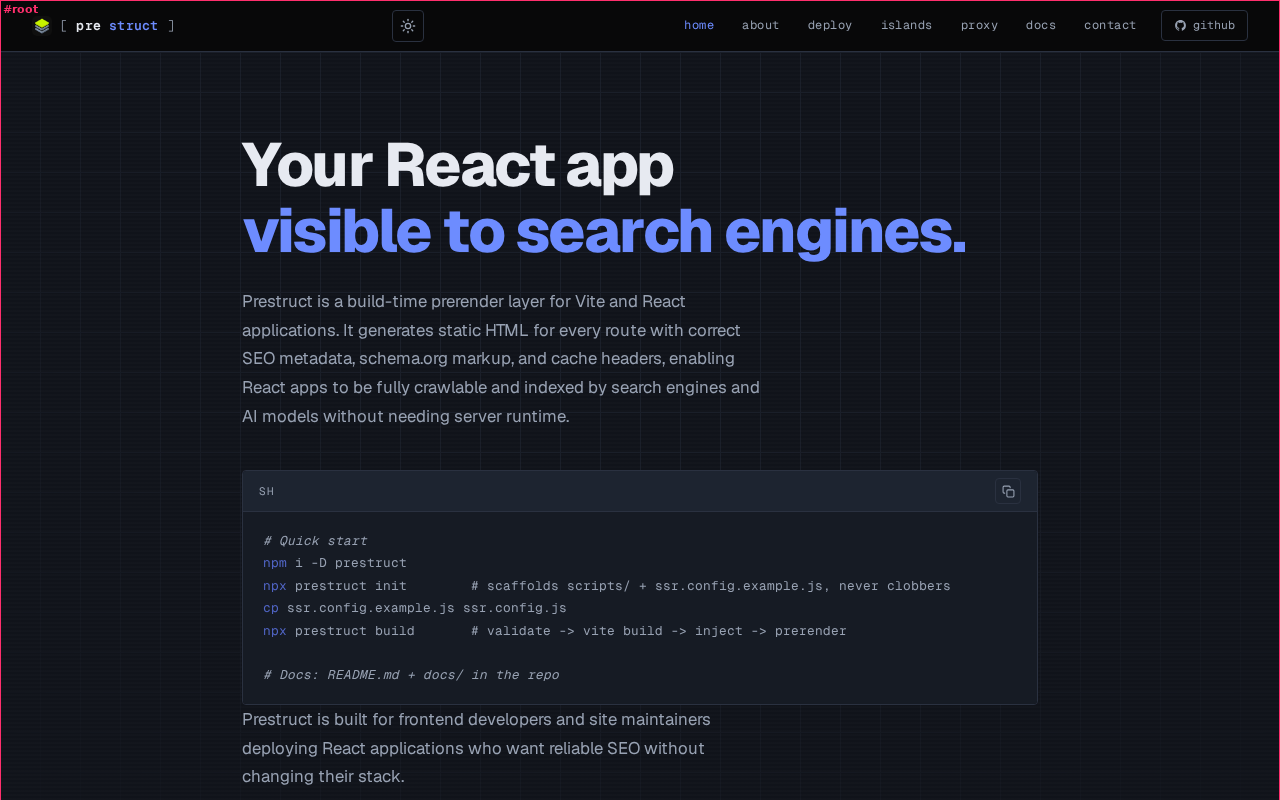
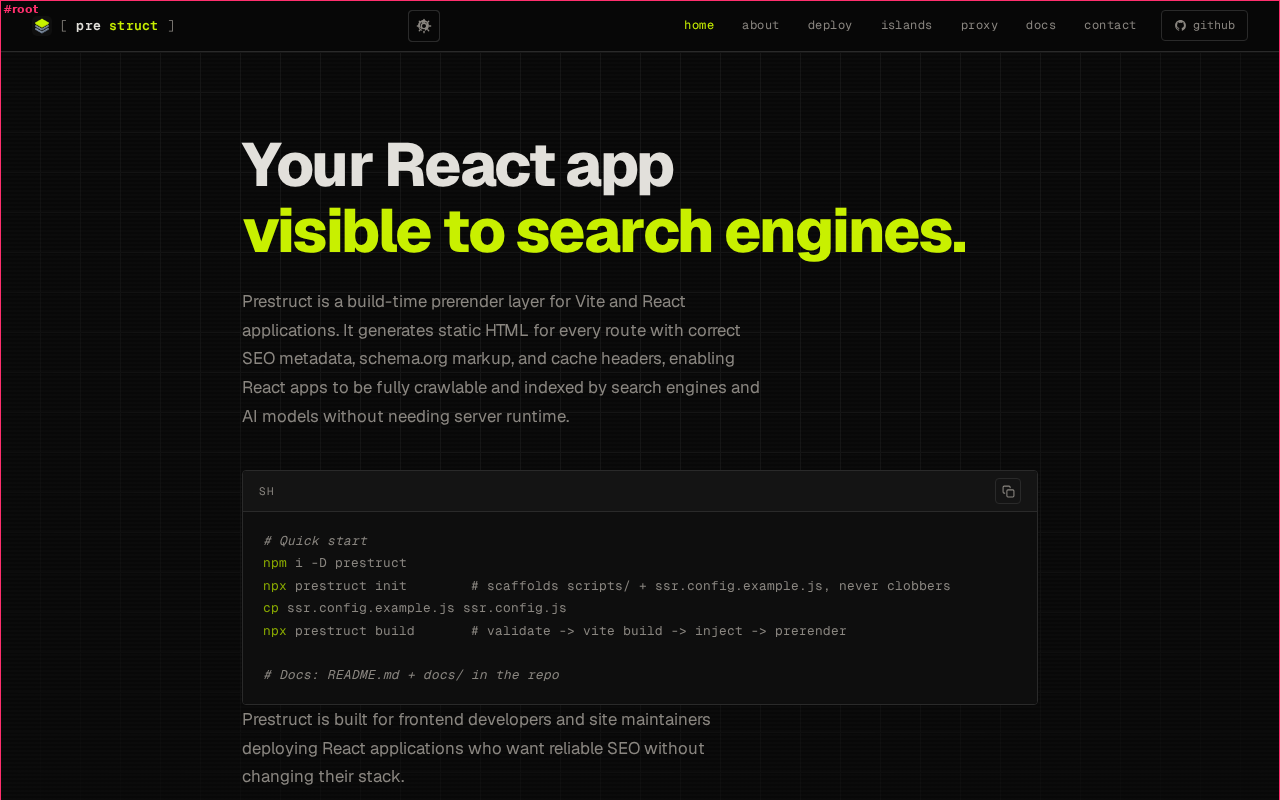
Rouge coverage: full token vocabulary for the docs highlight layer
The rig's six rouge rules (adopted with the theme) covered only a slice
of Rouge's emitted vocabulary - bash-heavy guides still rendered ~mono
because nb (cp, mkdir), nf/nv and the string variants carried no color.
The docs block now maps the full common vocabulary onto the brand sheet
tokens: keywords/builtins accent lime, functions/numbers accent-deep,
strings moss, comments ink-soft italic, diffs moss/err via gi/gd.
Verified: docs gates PASS; pixels re-checked live post-deploy in the
same pass (eyes look receipts in the ledger).

Also lands the retheme adopt-by-rerun receipts: baselines swapped at
(docs dark, docs light, example home) with row-0004/5/6 notes, gate
green at 3 artifacts / 6 rows; plus the beta finding that the example
site shares finding D1 (persist-attr theme, no prefers-color-scheme
repaint on first visit).

diff --git a/docs/_layouts/default.html b/docs/_layouts/default.html
@@ -137,17 +137,28 @@
            same): the Rouge .no/.mi/.mf/.mh rules below referenced it while
            :root never declared it - two raw-highlight token classes rendered
            colorless before the shorthand landed. */
-        /* Rouge token colors - the output of kramdown/rouge is <div class="highlight">
-           wrapping token spans that carried NO color until now (every code block
-           rendered monochrome). Same vocabulary and palette as the landing
-           site's token block (web/src/styles.css), all riding the theme tokens
-           so the light theme re-tunes every token with no extra override. */
-        .highlight .k, .highlight .kd, .highlight .kr, .highlight .kc { color: var(--accent); }
-        .highlight .s, .highlight .s1, .highlight .s2 { color: var(--moss); }
+        /* Rouge token colors - kramdown/rouge wraps tokens in <div class="highlight">
+           spans that carried NO color until the rig adoption landed the first
+           six rules (2026-10); code blocks on bash-heavy pages still rendered
+           ~monochrome because Rouge's emitted vocabulary (nb/nf/nv/sb/s1...) is
+           wider than that. This block is the FULL common vocabulary, all riding
+           the prestruct brand sheet tokens so light re-tunes everything.
+           Coverage receipts from the live pages: getting-started (nt/c/nb),
+           cli (k/s1/json). */
+        .highlight .k, .highlight .kd, .highlight .kn, .highlight .kp,
+        .highlight .kr, .highlight .kc, .highlight .kv, .highlight .nc,
+        .highlight .nd { color: var(--accent); }
+        .highlight .nb, .highlight .nv { color: var(--accent); }
+        .highlight .nf, .highlight .fm { color: var(--accent-deep); }
+        .highlight .s, .highlight .s1, .highlight .s2, .highlight .sb,
+        .highlight .se, .highlight .ss, .highlight .sd, .highlight .sx,
+        .highlight .si { color: var(--moss); }
         .highlight .no, .highlight .mi, .highlight .mf, .highlight .mh { color: var(--accent-deep); }
-        .highlight .nt, .highlight .ge { color: var(--err); }
+        .highlight .gi { color: var(--moss); }
+        .highlight .nt, .highlight .ge, .highlight .gd { color: var(--err); }
         .highlight .gp, .highlight .gh { color: var(--ink-soft); font-weight: 600; }
-        .highlight .c, .highlight .c1, .highlight .cm, .highlight .cd { color: var(--ink-soft); font-style: italic; }
+        .highlight .c, .highlight .c1, .highlight .cm, .highlight .cd,
+        .highlight .cs, .highlight .ch { color: var(--ink-soft); font-style: italic; }
         blockquote { margin: 0 0 14px; padding: 12px 18px; color: var(--ink-soft);
             border-left: 3px solid var(--accent); background: var(--surface); border-radius: 0 8px 8px 0; }
         table { border-collapse: collapse; width: 100%; font-size: 13.5px; margin: 14px 0; }
